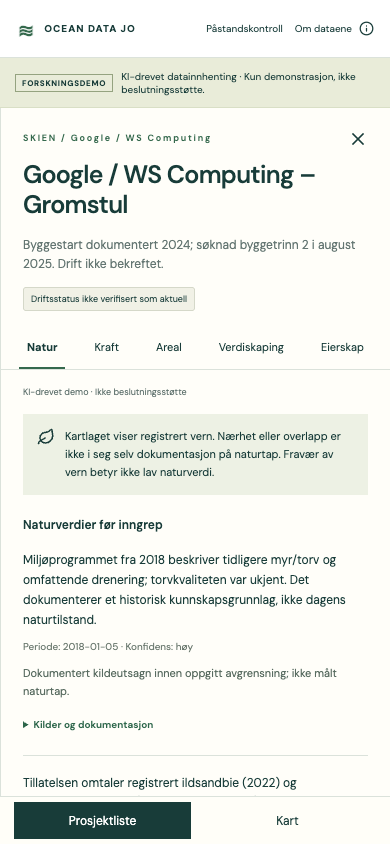
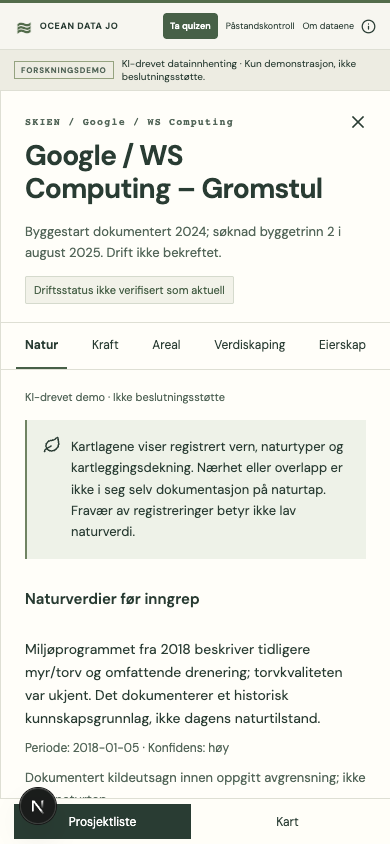
Apply approved warm observatory design and remove design studio

diff --git a/app/atlas-theme.module.css b/app/atlas-theme.module.css
@@ -1,0 +1,34 @@
+.theme {--ink:#293c33;--muted:#536659;--line:#dedfd4;--paper:#f7f6f0;--green:#476047;--lime:#e5ebdc;--amber:#825a2e;color:var(--ink);height:100dvh;overflow:hidden}
+.theme :global(.atlas){height:100dvh}
+.theme :global(.header){height:58px;background:var(--paper);padding:0 26px}
+.theme :global(.demo){background:#edece2;border-color:var(--line);min-height:38px;font-size:12px;padding:7px 26px}.theme :global(.demo-tag){letter-spacing:.8px;font-size:10px}.theme :global(.release){color:var(--muted);font-variant-numeric:tabular-nums}
+.theme :global(.header-links){font-size:13px;gap:20px}.theme :global(.brand){letter-spacing:1px}.theme :global(.sidebar){width:324px;background:var(--paper)}
+.theme :global(.intro){padding:24px 24px 18px}.theme :global(.eyebrow){font-size:10px;letter-spacing:1.2px;color:var(--muted);margin-bottom:12px}
+.theme :global(h1){font-size:30px;line-height:1.12;letter-spacing:-1px;text-wrap:balance}.theme :global(h1 em){font-size:34px;line-height:1.1}.theme :global(.lead){font-size:13px;line-height:1.6;margin:14px 0 16px;color:var(--muted)}
+.theme :global(.stats){gap:25px}.theme :global(.stats span){font-size:11px;max-width:90px}.theme :global(.stats strong){font-variant-numeric:tabular-nums;font-size:30px}
+.theme :global(.filters){padding:0 20px 15px}.theme :global(.search){border-color:#bdc8ba;border-radius:5px;padding:11px}.theme :global(.search input){font-size:13px}.theme :global(.filters select){font-size:12px;padding:9px 7px;color:var(--ink);border-color:#d2d7cd;border-radius:4px;background:#ffffff65}
+.theme :global(.list-heading){font-size:10px;letter-spacing:1px;padding:15px 24px 9px}.theme :global(.project-row){padding:16px 21px;gap:10px;transition:background 160ms ease}.theme :global(.project-row strong){font-size:15px;font-weight:600}.theme :global(.project-row small){font-size:10px;line-height:1.5;color:var(--muted);letter-spacing:0}.theme :global(.row-status){font-size:11px;color:var(--muted)}
+.theme :global(.project-row:hover){background:#eeeee3}.theme :global(.project-row.active){background:#e7eddf;border-left-color:#476047}.theme :global(.list-footer){font-size:10px;line-height:1.5;padding:13px 22px}
+.theme :global(.detail-panel){width:400px;background:#fffef9;box-shadow:none}.theme :global(.detail-heading){padding:24px 24px 18px}.theme :global(h2){font-size:27px;line-height:1.18;text-wrap:balance}.theme :global(.status-note){font-size:13px;color:var(--muted)}.theme :global(.pill){font-size:11px;padding:6px 8px;background:#f2f2e9;border-color:#d5dacd}
+.theme :global(.tabs){padding:0 15px}.theme :global(.tabs button){font-size:12px;padding:14px 9px}.theme :global(.detail-body){padding:20px 24px 28px}.theme :global(.detail-demo){font-size:11px;color:var(--muted)}
+.theme :global(.note){font-size:13px;line-height:1.65;background:#eef2e8;border-left:2px solid #708463;padding:16px}.theme :global(.claim){font-size:14px;line-height:1.65;padding:20px 0}.theme :global(.claim-top){font-size:12px;gap:12px;flex-wrap:wrap}.theme :global(.confidence){font-size:11px;background:#eef1e8;padding:3px 6px}.theme :global(.meta){font-size:12px;color:var(--muted)}.theme :global(.reason){font-size:13px;color:var(--muted)}
+.theme :global(.sources){font-size:12px;line-height:1.7;padding-left:16px}.theme :global(.sources span){color:var(--muted)}.theme :global(summary){font-size:12px;padding:10px 0}.theme :global(.nature-section>h3){font-size:15px;margin-top:22px}.theme :global(.empty-card){font-size:13px;padding:18px;background:#f1f1e7}.theme :global(.gaps){font-size:13px}.theme :global(.gaps h3){font-size:14px}
+.theme :global(.map-toolbar button),.theme :global(.nature-menu-button){box-shadow:0 1px 4px #293c3312;border:1px solid #c9d0c3;border-radius:5px;font-size:12px;background:#fffef9}
+.theme :global(.map-toolbar button.on){background:#e2ecd2}.theme :global(.context-label){display:none}.theme :global(.map-caption){font-size:11px;border:1px solid #d8ddd0;border-radius:4px;background:#fffef9f5}.theme :global(.nature-menu){border:1px solid #d8ddd0;border-radius:6px;box-shadow:0 8px 24px #293c3315}.theme :global(.nature-menu small){font-size:12px}.theme :global(.nature-menu label){font-size:13px}.theme :global(.nature-facts){font-size:13px;border:1px solid #d8ddd0;border-radius:6px}.theme :global(.nature-facts small){font-size:11px}
+.theme :global(button:focus-visible),.theme :global(a:focus-visible),.theme :global(input:focus-visible),.theme :global(select:focus-visible){outline:2px solid #7a5328;outline-offset:3px}
+
+
+/* B — compact index, technical type, warm paper and botanical accents from A.
+   Nature rasters, legends and geographical data are unchanged. */
+.theme{--ink:#293c33;--muted:#536659;--line:#dedfd4;--paper:#f7f6f0;--green:#476047;--lime:#e5ebdc}
+.theme :global(.header){background:#f7f6f0;border-top:3px solid #536c4b}.theme :global(.brand-symbol){color:#536c4b}.theme :global(.demo){background:#edece2;border-color:#dedfd4}.theme :global(.demo-tag){border-color:#95a380;color:#536659}.theme :global(.sidebar){width:302px;background:#f7f6f0}.theme :global(.intro){padding:20px 22px 16px;border-bottom:1px solid #dedfd4;margin-bottom:16px}
+.theme :global(.intro h1){font-family:'DM Sans',sans-serif;font-size:31px;font-weight:650;letter-spacing:-1.3px}.theme :global(.intro h1 em){display:block;font-family:'DM Sans',sans-serif;font-style:normal;font-size:17px;font-weight:450;letter-spacing:-.2px;line-height:1.4;margin-top:6px}.theme :global(.intro h1 br){display:none}
+.theme :global(.eyebrow),.theme :global(.project-no),.theme :global(.list-heading),.theme :global(.release){font-family:ui-monospace,SFMono-Regular,Consolas,monospace;font-variant-numeric:tabular-nums}
+.theme :global(.stats){border-top:1px solid #dedfd4;padding-top:14px;gap:28px}.theme :global(.stats strong){font-family:ui-monospace,SFMono-Regular,Consolas,monospace;font-size:25px}.theme :global(.project-row){padding:14px 18px;border-bottom:1px solid #dedfd4}.theme :global(.project-row:hover){background:#eef1e8}.theme :global(.project-row.active){background:#e7eddf;border-left-color:#476047}.theme :global(.row-status){color:#536659}.theme :global(.row-status:before){background:#839179}.theme :global(.search),.theme :global(.filters select){border-radius:2px;border-color:#d2d7cd}.theme :global(.detail-panel){background:#fffef9;width:414px}.theme :global(.detail-heading){border-bottom:1px solid #dedfd4}.theme :global(.detail-heading h2){font-size:26px;font-weight:650}.theme :global(.pill){background:#f2f2e9;border-color:#d5dacd;color:#476047;border-radius:2px}
+.theme :global(.note){background:#eef2e8;border-left-color:#708463}.theme :global(.confidence){background:#eef1e8;color:#476047}.theme :global(.empty-card){background:#f2f2e9}.theme :global(.claim .number-value){font-family:ui-monospace,SFMono-Regular,Consolas,monospace;font-size:29px;color:#293c33;font-variant-numeric:tabular-nums}.theme :global(.tabs button[aria-pressed=true]){border-color:#476047;color:#293c33}.theme :global(summary){color:#476047}.theme :global(.map-toolbar button),.theme :global(.nature-menu-button){border-radius:2px;border-color:#c9d0c3;background:#fffef9;box-shadow:none}.theme :global(.map-toolbar button.on){background:#e2ecd2}
+.theme :global(.map-caption),.theme :global(.nature-menu),.theme :global(.nature-facts){border-radius:2px;border-color:#d2d7cd;background:#fffef9f5}
+@media(min-width:1500px){.theme :global(.sidebar){width:344px}.theme :global(.sidebar){width:314px}.theme :global(.detail-panel){width:430px}}
+@media(max-width:1150px){.theme :global(.detail-panel){width:390px}}
+@media(max-width:700px){.theme :global(.atlas){height:100dvh}.theme :global(.header){height:50px;padding:0 14px}.theme :global(.header-links){font-size:10px;gap:10px}.theme :global(.brand){font-size:10px;letter-spacing:.6px}.theme :global(.demo){font-size:10px;padding:7px 14px;gap:8px}.theme :global(.demo-tag){font-size:8px}.theme :global(.sidebar){width:100%}.theme :global(.intro){padding:20px 22px 16px}.theme :global(.detail-panel){width:100%}.theme :global(.nature-menu){max-height:calc(100dvh - 340px)}.theme :global(.nature-facts){max-height:45%}.theme :global(.map-caption){font-size:10px}.theme :global(.mobile-switch){height:46px}.theme :global(.detail-heading h2){font-size:28px}}
+@media(prefers-reduced-motion:reduce){.theme :global(*){transition:none!important}}
+@media(max-width:700px){.theme :global(.intro){padding:14px 20px 12px;margin-bottom:0}.theme :global(.intro>.eyebrow){display:none}.theme :global(.intro h1){font-size:29px}.theme :global(.intro h1 em){font-size:23px;margin:2px 0 0}.theme :global(.intro h1 em){font-size:15px}.theme :global(.lead){font-size:12px;line-height:1.45;margin:9px 0 10px}.theme :global(.stats){padding:0;border:0;gap:24px}.theme :global(.stats strong){font-size:24px}.theme :global(.stats span){font-size:10px}.theme :global(.quiz-promo){margin-top:10px;padding:9px 12px}.theme :global(.quiz-promo small){display:none}.theme :global(.quiz-promo strong){font-size:12px}.theme :global(.filters){padding:10px 20px}.theme :global(.header .brand){white-space:nowrap;font-size:9px;gap:5px}.theme :global(.header-links){gap:8px;font-size:9px}.theme :global(.header-links .quiz-cta){padding:7px}.theme :global(.list-footer){padding:9px 20px}.theme :global(.project-row){padding:13px 20px}}

diff --git a/app/design/page.tsx b/app/design/page.tsx
@@ -1,19 +1,3 @@
-'use client';
-import {useState} from 'react';
-import AtlasView from '@/components/atlas';
+import {redirect} from 'next/navigation';
 import {BASE} from '@/lib/model';
-import styles from './preview.module.css';
-export default function DesignPreview(){
- const [direction,setDirection]=useState<'nature'|'observatory'>('observatory');
- return <div className={`${styles.preview} ${styles[direction]}`}>
-  <nav className={styles.reviewbar} aria-label="Sammenlign designutkast">
-   <span className={styles.reviewlabel}>Designstudie <small>B med fargetonene fra A</small></span>
-   <div className={styles.choices}>
-    <button aria-pressed={direction==='nature'} onClick={()=>setDirection('nature')}>A <span>Rolig naturatlas</span></button>
-    <button aria-pressed={direction==='observatory'} onClick={()=>setDirection('observatory')}>B <span>Observatorium · varm</span></button>
-   </div>
-   <a href={BASE}>Dagens app ↗</a>
-  </nav>
-  <AtlasView/>
- </div>;
-}
+export default function Page(){redirect(BASE);}

diff --git a/app/page.tsx b/app/page.tsx
@@ -1,2 +1,3 @@
 import AtlasView from '@/components/atlas';
-export default function Page(){return <AtlasView/>;}
+import styles from './atlas-theme.module.css';
+export default function Page(){return <div className={styles.theme}><AtlasView/></div>;}

diff --git a/docs/design/2026-10-05-visual-directions.md b/docs/design/2026-10-05-visual-directions.md
@@ -55,3 +55,13 @@ Brukeren foretrekker B med fargetonene fra A. B beholder oppsett, sans-serif,
 kompakt prosjektindeks og talltypografi, men bruker nå As papirtoner og grønne
 aksenter. Kombinasjonen er forhåndsvalgt på designsiden. Endringen er fortsatt
 avgrenset til designbranchen; main og produksjon er ikke endret.
+
+## Godkjent hoveddesign
+
+Brukeren godkjente B med As palett for publisering. Designvelgeren er fjernet,
+stilen brukes på hovedruten, og /design videresender til kartet. Historiske
+skjermbilder over viser vurderingsprosessen; de er ikke egne appvarianter.
+
+Sluttkontroll: TypeScript, produksjonsbygg og tre nettlesertester bestod på
+localhost:5174 (prosjektdata/kilder/mobil, naturkartlag og eksplisitt ODP-feil).
+Produksjonsskjermbildene i docs/implementation er oppdatert til valgt design.
